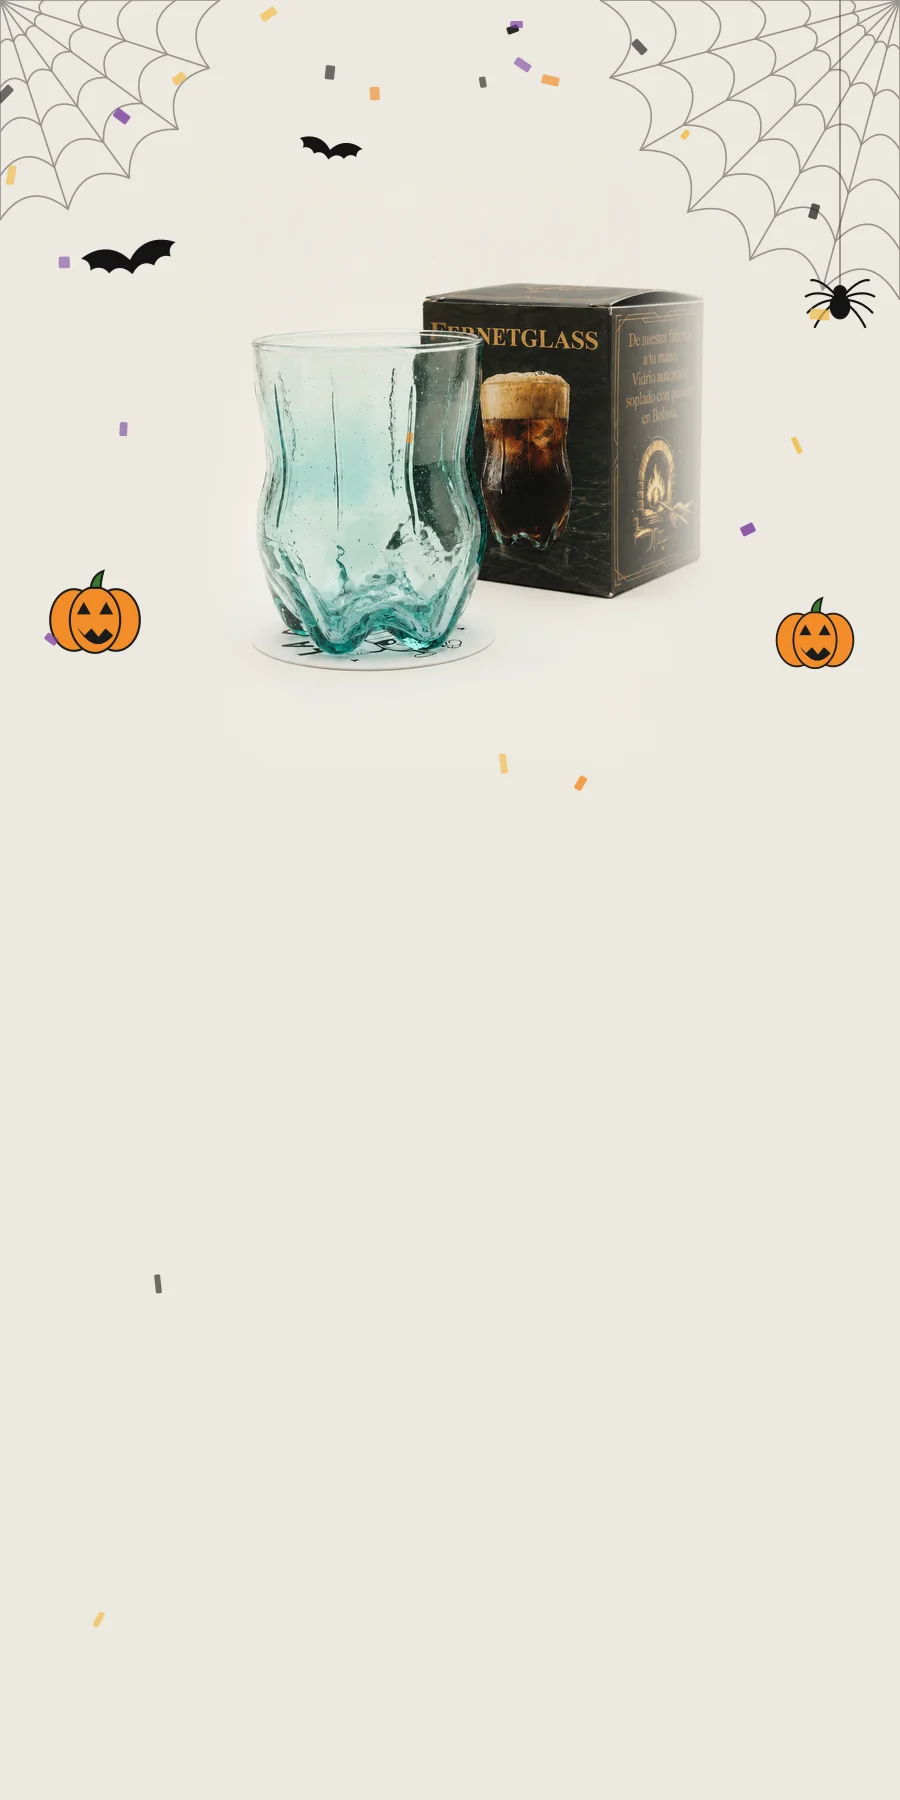
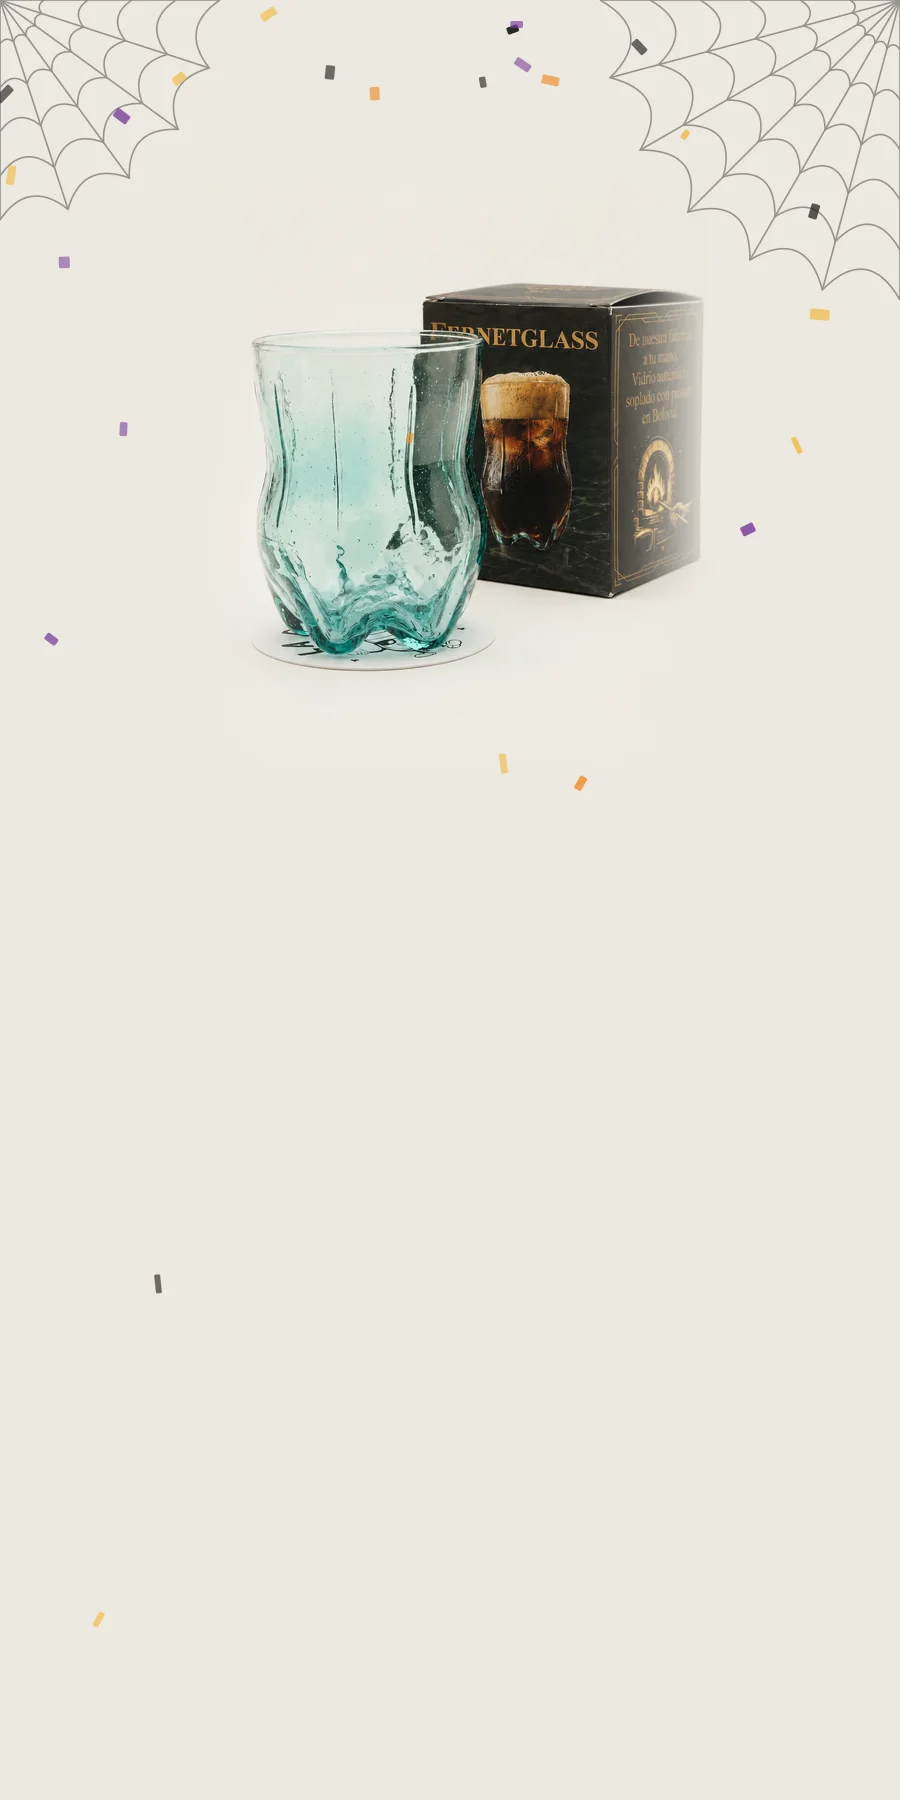
Portada de Halloween animada: arañas que bajan y murciélagos, sin calabazas
Claude-Session: https://claude.ai/code/session_013Bebsj91hbH3qAU3ouZ21B

diff --git a/src/components/HalloweenFx.tsx b/src/components/HalloweenFx.tsx
@@ -1,0 +1,105 @@
+// Animación de Halloween para la portada: arañas que bajan colgando de su hilo y se mueven,
+// y murciélagos que cruzan volando. Se vuelve a animar cada vez que aparece el anuncio.
+// Con "reducir movimiento" activado, todo queda quieto en su lugar.
+
+const spiders = [
+  { left: "63%", y: "24vh", ym: "24vh", size: 34, delay: 0.2, bob: 3.2, hideMobile: true },
+  { left: "93%", y: "46vh", ym: "26vh", size: 44, delay: 0.9, bob: 2.6, hideMobile: false },
+  { left: "47%", y: "14vh", ym: "14vh", size: 26, delay: 1.6, bob: 3.8, hideMobile: true },
+  { left: "8%", y: "20vh", ym: "17vh", size: 30, delay: 1.2, bob: 3.4, hideMobile: false },
+];
+
+const bats = [
+  { top: "12%", size: 70, dur: 14, delay: 0.5 },
+  { top: "22%", size: 44, dur: 19, delay: 4 },
+  { top: "6%", size: 54, dur: 16, delay: 9 },
+];
+
+function Spider({ size }: { size: number }) {
+  const legs = [
+    [-1.1, -1], [-0.2, -1], [0.7, -1], [1.5, -1],
+  ];
+  return (
+    <svg width={size * 2.4} height={size * 2.2} viewBox="-48 -40 96 88" className="hfx-spider-body" aria-hidden>
+      <g stroke="#141414" strokeWidth="3" strokeLinecap="round" fill="none">
+        {[-1, 1].map((side) => (
+          <g key={side} className={side < 0 ? "hfx-legs-l" : "hfx-legs-r"}>
+            {legs.map(([dy], k) => (
+              <path key={k} d={`M0,4 Q${side * 22},${(dy ?? 0) * 12 - 6} ${side * 38},${(dy ?? 0) * 20 + 4}`} />
+            ))}
+          </g>
+        ))}
+      </g>
+      <ellipse cx="0" cy="12" rx="12" ry="15" fill="#141414" />
+      <circle cx="0" cy="-6" r="8" fill="#141414" />
+      <circle cx="-3" cy="-7" r="1.8" fill="#F28C28" />
+      <circle cx="3" cy="-7" r="1.8" fill="#F28C28" />
+    </svg>
+  );
+}
+
+function Bat({ size }: { size: number }) {
+  return (
+    <svg width={size} height={size * 0.45} viewBox="-42 -18 84 36" aria-hidden>
+      <g fill="#141414">
+        <path className="hfx-wing-l" d="M0,0 C-10,-14 -26,-16 -40,-8 C-34,-6 -33,-1 -34,3 C-28,0 -22,2 -19,8 C-13,3 -6,4 0,12Z" />
+        <path className="hfx-wing-r" d="M0,0 C10,-14 26,-16 40,-8 C34,-6 33,-1 34,3 C28,0 22,2 19,8 C13,3 6,4 0,12Z" />
+        <ellipse cx="0" cy="3" rx="4" ry="7" />
+      </g>
+    </svg>
+  );
+}
+
+export function HalloweenFx() {
+  return (
+    <div className="pointer-events-none absolute inset-0 z-[5] overflow-hidden" aria-hidden>
+      <style>{css}</style>
+      {spiders.map((s, n) => (
+        <div
+          key={n}
+          className={`hfx-spider ${s.hideMobile ? "hidden md:block" : ""}`}
+          style={{ left: s.left, ["--yd" as string]: s.y, ["--ym" as string]: s.ym, ["--d" as string]: `${s.delay}s`, ["--b" as string]: `${s.bob}s` }}
+        >
+          <span className="hfx-thread" />
+          <Spider size={s.size} />
+        </div>
+      ))}
+      {bats.map((b, n) => (
+        <div key={n} className="hfx-bat" style={{ top: b.top, ["--dur" as string]: `${b.dur}s`, ["--d" as string]: `${b.delay}s` }}>
+          <div className="hfx-bat-bob">
+            <Bat size={b.size} />
+          </div>
+        </div>
+      ))}
+    </div>
+  );
+}
+
+const css = `
+.hfx-spider{--y:var(--yd);position:absolute;top:0;transform:translate(-50%,-120%);
+  animation:hfx-drop 1.8s cubic-bezier(.3,1.4,.5,1) var(--d) forwards, hfx-bob var(--b) ease-in-out calc(var(--d) + 1.8s) infinite alternate;}
+.hfx-thread{position:absolute;left:50%;bottom:calc(100% - 22px);width:1.5px;height:120vh;background:rgba(30,30,30,.55);transform:translateX(-50%);}
+.hfx-spider-body{display:block;animation:hfx-sway 2.4s ease-in-out infinite alternate;transform-origin:50% 0;}
+.hfx-legs-l{animation:hfx-leg 0.5s ease-in-out infinite alternate;transform-origin:0 4px;}
+.hfx-legs-r{animation:hfx-leg 0.5s ease-in-out .25s infinite alternate-reverse;transform-origin:0 4px;}
+@keyframes hfx-drop{from{transform:translate(-50%,-120%)}to{transform:translate(-50%,var(--y))}}
+@keyframes hfx-bob{
+  0%{transform:translate(-50%,var(--y))}
+  40%{transform:translate(-50%,calc(var(--y) - 7vh))}
+  70%{transform:translate(-50%,calc(var(--y) + 2vh))}
+  100%{transform:translate(-50%,calc(var(--y) - 3vh))}}
+@keyframes hfx-sway{from{transform:rotate(-6deg)}to{transform:rotate(6deg)}}
+@keyframes hfx-leg{from{transform:rotate(-5deg)}to{transform:rotate(6deg)}}
+.hfx-bat{position:absolute;left:0;transform:translateX(-15vw);animation:hfx-fly var(--dur) linear var(--d) infinite;}
+.hfx-bat-bob{animation:hfx-wave 1.6s ease-in-out infinite alternate;}
+.hfx-wing-l,.hfx-wing-r{transform-origin:0 0;animation:hfx-flap .22s ease-in-out infinite alternate;}
+@keyframes hfx-fly{from{transform:translateX(-15vw)}to{transform:translateX(115vw)}}
+@keyframes hfx-wave{from{transform:translateY(-14px) rotate(-6deg)}to{transform:translateY(14px) rotate(6deg)}}
+@keyframes hfx-flap{from{transform:scaleY(1)}to{transform:scaleY(.25)}}
+@media (max-width:767px){.hfx-spider{--y:var(--ym)}}
+@media (prefers-reduced-motion: reduce){
+  .hfx-spider{animation:none;transform:translate(-50%,var(--y))}
+  .hfx-spider-body,.hfx-legs-l,.hfx-legs-r,.hfx-wing-l,.hfx-wing-r,.hfx-bat-bob{animation:none}
+  .hfx-bat{animation:none;transform:translateX(70vw)}
+}
+`;

diff --git a/src/components/AnnouncementCarousel.tsx b/src/components/AnnouncementCarousel.tsx
@@ -2,6 +2,7 @@ import { useEffect, useState } from "react";
 import { ArrowLeft, ArrowRight } from "lucide-react";
 import { PROMO_UNTIL, PROMO_UNTIL_EN, WHATSAPP } from "@/lib/offers";
 import { useLang } from "@/lib/i18n";
+import { HalloweenFx } from "@/components/HalloweenFx";
 
 // PORTADA: anuncios con fotos grandes que van rotando.
 // Para agregar un anuncio nuevo, sumar un objeto a `slides` (texto en español y en inglés).
@@ -21,6 +22,8 @@ type Slide = {
   // "light": foto de fondo claro, texto oscuro.
   overlay?: "default" | "dark" | "light";
   accent?: string;
+  // "halloween": arañas y murciélagos animados encima de la foto
+  fx?: "halloween";
 };
 
 const PROMO_MSG = encodeURIComponent(
@@ -43,6 +46,7 @@ const slides: Slide[] = [
     position: "object-top md:object-right",
     overlay: "light",
     accent: "#F28C28",
+    fx: "halloween",
   },
   {
     tag: ["Impacto social", "Social impact"],
@@ -165,6 +169,7 @@ export function AnnouncementCarousel() {
             ) : (
               <div className="absolute inset-0 bg-gradient-to-t from-primary/90 via-primary/45 to-primary/25" />
             )}
+            {s.fx === "halloween" && active && <HalloweenFx />}
             <div className={`absolute inset-x-0 top-0 h-36 bg-gradient-to-b to-transparent ${light ? "from-black/50" : "from-black/60"}`} />
             <div className="relative z-10 mx-auto flex h-full max-w-[1440px] items-end px-5 pb-28 pt-28 md:px-10 md:pb-32">{content}</div>
           </div>

diff --git a/CHANGELOG.md b/CHANGELOG.md
@@ -2,6 +2,12 @@
 
 Registro de cada cambio y arreglo. Lo más reciente arriba.
 
+## 2026-10-28 (4) (publicado en main)
+- Portada de Halloween animada: las arañas bajan colgando de su hilo, se mecen y mueven las patas; murciélagos cruzan volando.
+- Se quitaron las calabazas, y las arañas y murciélagos fijos de la foto (ahora son animados).
+- Cada vez que vuelve a aparecer el anuncio, las arañas vuelven a bajar. Si la persona tiene "reducir movimiento", quedan quietas.
+- Archivos: `HalloweenFx.tsx` (nuevo), `AnnouncementCarousel.tsx`, `public/images/promos/fernetero-halloween*.webp`.
+
 ## 2026-10-28 (3) (publicado en main)
 - La promo mayorista de ferneteras vuelve a tener tema de Halloween: telarañas, arañas, murciélagos, calabazas y confeti, con la foto nueva del vaso y su caja FernetGlass (fondo claro, texto oscuro).
 - Mantiene: desde 10 unidades, precio mayorista hasta el 31 de octubre, para fiestas, eventos o regalos.
